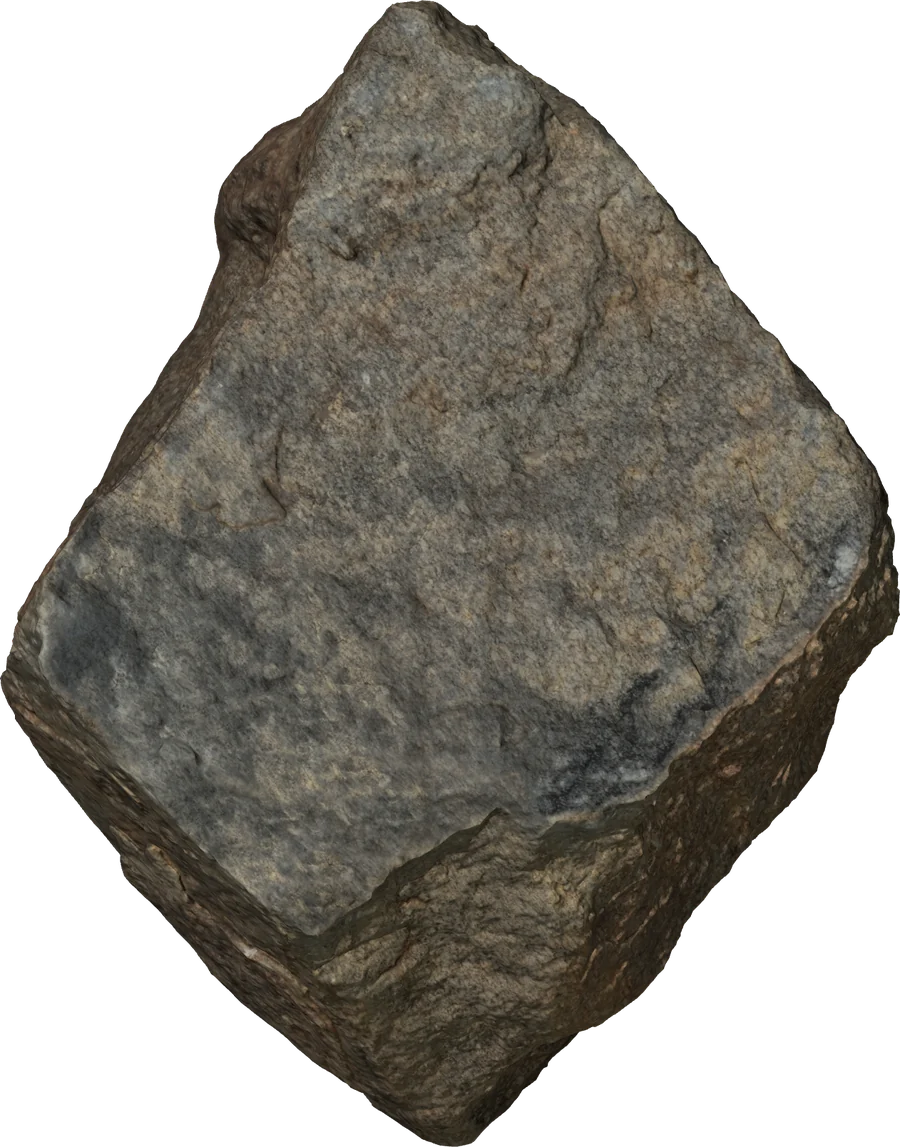
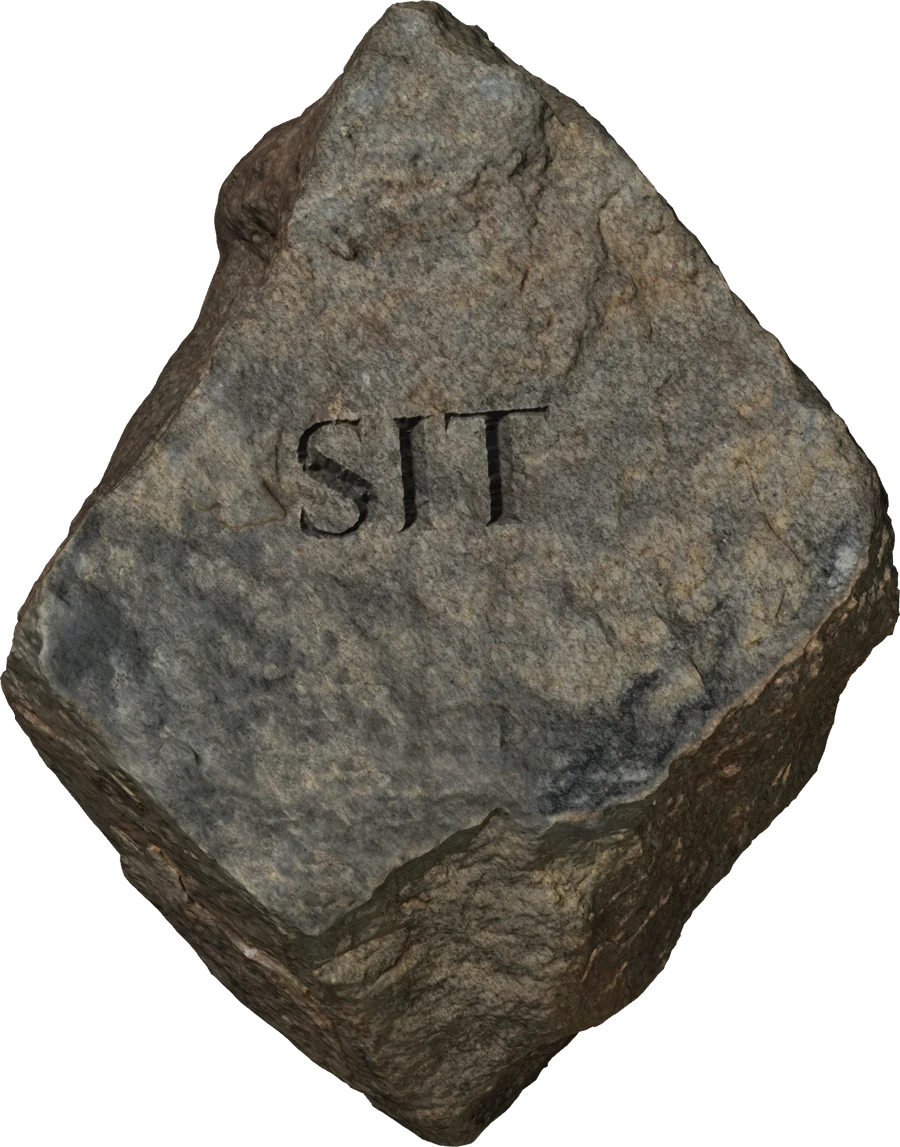
Clearing: smaller rock near the bottom with SIT carved in, sprigs round its outline, a longer walk that turns to sunset, stronger ripple while sitting
Claude-Session: https://claude.ai/code/session_01PnSu5xV1ctRTnpq1nQqMsJ

Changed region(s): [[0.3111, 0.3662, 0.4978, 0.4882], [0.4978, 0.3357, 0.6222, 0.4577]]

diff --git a/assets/blades.js b/assets/blades.js
@@ -162,7 +162,8 @@
       const u = Math.min(1, Math.max(0, (now - gr.t0 - g.gd) / GROW)); return u <= 0 ? null : [g.ang, Math.min(1, u * 4), .12 + .88 * (1 - Math.pow(1 - u, 3))]; };
     // the blades' shadows fall only on the piece (on the ground they'd show as dark smudges), and move with their blades
     if (!st.shape) { const el = st.el; st.shape = [el.offsetWidth, el.offsetHeight, parseFloat(getComputedStyle(el).borderTopLeftRadius) || 0]; }
-    const [w, h, rad] = st.shape; sx.save(); sx.beginPath(); sx.roundRect ? sx.roundRect(0, 0, w, h, rad) : sx.rect(0, 0, w, h); sx.clip();
+    const [w, h, rad] = st.shape, poly = st.el._poly; sx.save(); sx.beginPath();
+    if (poly) { poly.forEach(([x, y], i) => i ? sx.lineTo(x, y) : sx.moveTo(x, y)); sx.closePath(); } else if (sx.roundRect) sx.roundRect(0, 0, w, h, rad); else sx.rect(0, 0, w, h); sx.clip();
     for (const g of st.blades) { if (!near(g)) continue; const P = pose(g); if (P) drawShadow(sx, g, g.x, g.y, P[0], P[1], P[2]); }
     sx.restore();
     // a bending blade is drawn right here in its own strip, so it stays under whatever lies on top of its piece
@@ -351,6 +352,24 @@
     list.push({ el, edge, sp, x, y, w: sw, len, ang, px: ox + x - sw / 2, py: oy + y - len });
   }
   let noGrass = [];
+  // The rock isn't a box: its sprigs root just outside its real outline (traced from the picture, as fractions of its size,
+  // in data-outline) and lean in over it, grouped by which way that stretch of edge faces
+  function rockSprigs(el, list, ox, oy) {
+    const w = el.offsetWidth, h = el.offsetHeight, P = el.dataset.outline.trim().split(/\s+/).map(q => q.split(",").map(Number)).map(([x, y]) => [x * w, y * h]);
+    el._poly = P; let run = 0;
+    for (let i = 0; i < P.length; i++) {
+      const [ax, ay] = P[i], [bx, by] = P[(i + 1) % P.length], seg = Math.hypot(bx - ax, by - ay); if (!seg) continue;
+      const nx = (by - ay) / seg, ny = -(bx - ax) / seg; // outward, for an outline running clockwise on screen
+      for (run += seg; run > 13; run -= 13) {
+        const t = 1 - (run - 13) / seg, x0 = ax + (bx - ax) * t, y0 = ay + (by - ay) * t;
+        const clump = rnd() < .45, len = (clump ? 30 + rnd() * 22 : 26 + rnd() * 26) * K(), sp = pick(rnd() < .3 ? moss : clump ? clumps : blades);
+        const jit = (rnd() - .5) * 70, intrude = 5 + rnd() * 10, out = len * Math.abs(Math.cos(jit * Math.PI / 180)) - intrude;
+        const x = x0 + nx * out, y = y0 + ny * out, sw = sp.w * len / sp.h, ang = Math.atan2(-nx, ny) * 180 / Math.PI + jit;
+        const edge = Math.abs(nx) > Math.abs(ny) ? (nx < 0 ? "r2" : "r3") : (ny < 0 ? "r0" : "r1");
+        list.push({ el, edge, sp, x, y, w: sw, len, ang, px: ox + x - sw / 2, py: oy + y - len });
+      }
+    }
+  }
   const small = () => innerWidth < 700, K = () => small() ? .7 : 1;
   function dress(el) {
     // grass that has already shown stays up until its replacement is painted, so a relayout never leaves a piece bare
@@ -359,10 +378,11 @@
     if (!el._shown) olds.forEach(b => b.remove()); else el._olds = olds;
     for (const st of [...strips]) if (st.el === el) { strips.delete(st); growing.delete(st); }
     const { x: ox, y: oy } = offset(el), list = [];
-    const name = el.classList.contains("lay-name"), tab = !!el.closest(".hand");
+    const name = el.classList.contains("lay-name"), tab = !!el.closest(".hand"), rock = el.classList.contains("lay-rock");
     // menu cards are tucked under the top edge, so only their bottom edge lies in the grass
-    const edges = name || tab ? ["bottom"] : ["top", "bottom", "left", "right"];
-    for (const edge of edges) {
+    const edges = rock ? ["r0", "r1", "r2", "r3"] : name || tab ? ["bottom"] : ["top", "bottom", "left", "right"];
+    if (rock) rockSprigs(el, list, ox, oy);
+    else for (const edge of edges) {
       const span = edge === "top" || edge === "bottom" ? el.offsetWidth : el.offsetHeight;
       const n = Math.max(3, Math.round(span / (name ? 14 : small() ? 24 : 15) * (0.7 + rnd() * 0.6)));
       for (let i = 0; i < n; i++) {
@@ -764,11 +784,10 @@
   // ---------- Sitting on the rock ----------
   // the clearing at the bottom has a rock; sitting on it lets a breeze run through the grass, rising and falling slowly,
   // until you get up (the rock again, Esc, or scrolling away)
-  const breeze = t => { t /= 1000; return .42 + .16 * Math.sin(t * .37) + .1 * Math.sin(t * 1.13 + 1.7); };
+  const breeze = t => { t /= 1000; return .62 + .2 * Math.sin(t * .37) + .12 * Math.sin(t * 1.13 + 1.7); };
   function sit(on) {
     const rock = document.querySelector(".i-rock"); if (!rock || !!wind.sit === on) return;
-    wind.sit = on; rock.setAttribute("aria-pressed", on); document.documentElement.classList.toggle("sitting", on);
-    const tag = rock.querySelector(".i-sit"); if (tag) tag.textContent = on ? "Stand up" : "Sit";
+    wind.sit = on; rock.setAttribute("aria-pressed", on); rock.setAttribute("aria-label", on ? "Stand up" : "Sit on the rock"); document.documentElement.classList.toggle("sitting", on);
     if (on) { rock.closest(".i-field").scrollIntoView({ behavior: reduce() ? "auto" : "smooth", block: "end" }); sit.t = performance.now(); }
     if (on && !reduce() && !wind.raf) { wind.t = performance.now(); wrec.length = 0; wrec.push([wind.t - 7000, 0]); wind.raf = requestAnimationFrame(windFrame); }
   }
@@ -776,7 +795,7 @@
   addEventListener("keydown", e => { if (e.key === "Escape") sit(false); });
   // getting up by scrolling: once the walk to the rock has settled, leaving the clearing stands you up
   addEventListener("scroll", () => { if (!wind.sit || performance.now() - sit.t < 1500) return;
-    const f = document.querySelector(".i-field").getBoundingClientRect(); if (f.top > innerHeight * .45) sit(false); }, { passive: true });
+    const r = document.querySelector(".i-rock").getBoundingClientRect(), c = (r.top + r.bottom) / 2; if (c < 0 || c > innerHeight) sit(false); }, { passive: true });
   function windFrame() {
     const now = performance.now(), dt = Math.min(.034, (now - wind.t) / 1000); wind.t = now;
     if (now - wind.ev > 90) wind.aim = wind.sit ? breeze(now) : 0; // scrolling has stopped (sitting on the rock, a breeze keeps up)
@@ -790,6 +809,8 @@
     const top = recordWind(now, dir * wind.e), calm = !wind.aim && top < .004;
     windW = calm ? 0 : wdir * Math.max(top, .004); // nonzero while any gust is still crossing the window
     wind.ph += 3 * dt; // the gusts travel at about 250px a second
+    // sitting, the gusts lean the grass further (Ian: "a more intense ripple"); it eases there and back so nothing jumps
+    wind.amp = (wind.amp || 0) + ((wind.sit ? 1 : 0) - (wind.amp || 0)) * Math.min(1, dt * .8);
     // while the page is still scrolling nothing leans: re-tilting every edge each frame made the browser redraw the cards
     // all through the scroll (frames went from about 17ms to over half a second, and fast scrolls flashed bare ground), and
     // the lean can't be seen while the page moves anyway (Ian). The gusts it gathered roll through once scrolling stops.
@@ -811,7 +832,7 @@
       const on = !calm && seen[i];
       if (on) { if (!windSt.has(st)) { windSt.add(st); const ox = (st.edge === "left" ? 0 : wd[i]) - st.x0;
           for (const q of pair(st)) for (const n of [q.img, q.cv]) n.style.transformOrigin = `${ox}px 50%`; }
-        const r = rs[i], ex = r.left + (st.edge === "left" ? 0 : r.width), ey = r.top + st.y0 + st.H / DPR / 2, k = (st.edge === "left" ? 1 : -1) * envAt(ex, ey) * 12 * gust(r.left + (st.edge === "left" ? 0 : r.width) + scrollX - sr.x, r.top + st.y0 + st.H / DPR / 2 + scrollY - sr.y), tf = `skewY(${k.toFixed(2)}deg)`; st.skew = [+k.toFixed(2), (st.edge === "left" ? 0 : wd[i]) || st.skew && st.skew[1] || 0]; for (const q of pair(st)) q.img.style.transform = q.cv.style.transform = tf; }
+        const r = rs[i], ex = r.left + (st.edge === "left" ? 0 : r.width), ey = r.top + st.y0 + st.H / DPR / 2, k = (st.edge === "left" ? 1 : -1) * envAt(ex, ey) * (12 + 8 * wind.amp) * gust(r.left + (st.edge === "left" ? 0 : r.width) + scrollX - sr.x, r.top + st.y0 + st.H / DPR / 2 + scrollY - sr.y), tf = `skewY(${k.toFixed(2)}deg)`; st.skew = [+k.toFixed(2), (st.edge === "left" ? 0 : wd[i]) || st.skew && st.skew[1] || 0]; for (const q of pair(st)) q.img.style.transform = q.cv.style.transform = tf; }
       else if (windSt.has(st)) { windSt.delete(st); st.skew = null; for (const q of pair(st)) q.img.style.transform = q.cv.style.transform = ""; } }
     if (SW && !swayFrame.raf) swayFrame.raf = requestAnimationFrame(swayFrame);
     wind.raf = calm ? 0 : requestAnimationFrame(windFrame);
@@ -964,7 +985,7 @@
       l = Math.min(l, x); t = Math.min(t, y); r = Math.max(r, x); b = Math.max(b, y); });
     // the scroll's pull moves every strand in view, so then the whole window is drawn
     if (windW) { l = t = -1e4; r = b = 1e4; }
-    gl.uniform3f(SW.uW, wdir, 6, wind.ph);
+    gl.uniform3f(SW.uW, wdir, 6 + 6 * (wind.amp || 0), wind.ph);
     if (windW) { const sr = sceneRect(); gl.uniform4f(SW.uV, scrollX - sr.x, scrollY - sr.y, innerWidth, innerHeight);
       for (let i = 0; i < WH; i++) SW.eb[i] = Math.max(1, Math.min(255, Math.round(whist[i] * 127) + 128));
       gl.activeTexture(gl.TEXTURE6); gl.bindTexture(gl.TEXTURE_2D, SW.et); gl.texImage2D(gl.TEXTURE_2D, 0, gl.LUMINANCE, WH, 1, 0, gl.LUMINANCE, gl.UNSIGNED_BYTE, SW.eb); } gl.uniform1f(SW.uN, ks.length); gl.uniform1f(SW.uR, SW.d || DPR);

diff --git a/index.html b/index.html
@@ -19,7 +19,7 @@
 <link rel="preconnect" href="https://fonts.gstatic.com" crossorigin>
 <link rel="stylesheet" href="https://fonts.googleapis.com/css2?family=Bricolage+Grotesque:opsz,wght@12..96,300..800&family=Plus+Jakarta+Sans:ital,wght@0,300..800;1,300..800&family=Rampart+One&display=swap">
 <link rel="stylesheet" href="assets/site.css?v=20261013u">
-<link rel="stylesheet" href="assets/dir-i.css?v=20261030sit">
+<link rel="stylesheet" href="assets/dir-i.css?v=20261030sit2">
 <!-- the ground fetched first, so it is usually there for the first frame -->
 <link rel="preload" as="image" href="assets/tex/moss-quiet-2k.webp" fetchpriority="high">
 <link rel="preload" as="image" href="assets/tex/canopy-shade-L.webp" fetchpriority="high">
@@ -110,8 +110,9 @@
    <button class="s-btn primary" type="submit">Send message</button>
    <p class="s-form-note" role="status"></p>
   </div></form></section>
- <section class="i-field" aria-label="A clearing"><button class="i-rock no-grass" type="button" aria-pressed="false"><img class="rock-img" src="assets/img/rock.webp" alt="A rock"><span class="i-sit">Sit</span></button></section>
+ <section class="i-field" aria-label="A clearing"><button class="i-rock lay lay-rock no-grass" type="button" aria-pressed="false" aria-label="Sit on the rock" data-outline="0.997,0.510 0.995,0.544 0.963,0.574 0.937,0.601 0.926,0.631 0.912,0.660 0.893,0.687 0.866,0.709 0.839,0.731 0.814,0.754 0.788,0.777 0.763,0.802 0.743,0.837 0.714,0.865 0.678,0.887 0.637,0.905 0.599,0.937 0.554,0.974 0.503,1.000 0.450,0.982 0.403,0.953 0.359,0.931 0.319,0.905 0.281,0.882 0.247,0.857 0.217,0.830 0.188,0.804 0.158,0.780 0.135,0.752 0.112,0.724 0.086,0.699 0.059,0.672 0.034,0.644 0.010,0.613 0.008,0.578 0.021,0.543 0.038,0.510 0.063,0.480 0.082,0.452 0.105,0.426 0.122,0.401 0.137,0.376 0.157,0.353 0.176,0.330 0.195,0.307 0.216,0.285 0.230,0.255 0.244,0.220 0.247,0.163 0.278,0.132 0.316,0.107 0.358,0.085 0.397,0.039 0.446,0.003 0.503,0.014 0.555,0.043 0.602,0.069 0.645,0.092 0.683,0.121 0.715,0.152 0.745,0.180 0.773,0.207 0.798,0.233 0.821,0.260 0.845,0.285 0.873,0.306 0.898,0.331 0.923,0.356 0.948,0.383 0.974,0.411 0.986,0.443 0.993,0.476"><img class="rock-img" src="assets/img/rock.webp" alt=""></button></section>
 </main>
+<div class="i-dusk" aria-hidden="true"></div><div class="i-dusk i-glow" aria-hidden="true"></div>
 </div><script>(() => { // each piece learns where it lies before the page is first drawn, so its light is right from the start
   // (until blades.js did this, every card was lit as if it were the whole page: a dark rim that then changed)
   const sc = document.querySelector(".x-i"); if (!sc) return; const R = sc.getBoundingClientRect();
@@ -119,4 +120,4 @@
   document.querySelectorAll(".card, .hand a").forEach(el => { const r = el.getBoundingClientRect();
     el.style.setProperty("--ox", (r.left + r.width / 2 - el.offsetWidth / 2 - R.left) + "px"); el.style.setProperty("--oy", (r.top + r.height / 2 - el.offsetHeight / 2 - R.top) + "px"); }); })();</script><script>(() => { const done = () => document.documentElement.classList.add("ground-in");
   window.__floor.groundP.then(() => { const F = window.__floor || {}; if (document.prerendering || !F.drawn || F.panned) { document.documentElement.classList.add("ground-now"); done(); } else requestAnimationFrame(done); });
-  setTimeout(done, 5000); })();</script><script src="assets/site-r.js?v=20261030c" defer></script><script src="assets/blades.js?v=20261030t" defer></script><script src="assets/forest.js?v=20261030f" defer></script></body></html>
+  setTimeout(done, 5000); })();</script><script src="assets/site-r.js?v=20261030c" defer></script><script src="assets/blades.js?v=20261030u" defer></script><script src="assets/forest.js?v=20261030f" defer></script></body></html>

diff --git a/assets/dir-i.css b/assets/dir-i.css
@@ -540,10 +540,13 @@ html:active-view-transition-type(pan-left)::view-transition-new(root) { animatio
 @keyframes pan-from-right { from { transform: translateX(calc(100% - var(--sbw, 0px))); } }
 @keyframes pan-to-right { to { transform: translateX(calc(100% - var(--sbw, 0px))); } }
 @keyframes pan-from-left { from { transform: translateX(calc(var(--sbw, 0px) - 100%)); } }
-/* the clearing at the bottom: open moss with a rock to sit on; sitting lets a breeze run through the grass */
-.i-field { position: relative; height: max(100vh, 680px); margin-top: 120px; }
-.i-rock { position: absolute; left: 50%; top: 52%; width: min(430px, 62vw); transform: translate(-50%, -50%) rotate(-6deg); padding: 0; border: 0; background: none; cursor: pointer; z-index: 3; }
-.rock-img { display: block; width: 100%; height: auto; filter: drop-shadow(2px 4px 3px rgba(8,10,0,.5)) drop-shadow(14px 22px 22px rgba(8,10,0,.38)); }
-.i-sit { position: absolute; left: 50%; top: 50%; transform: translate(-50%, -50%) rotate(4deg); font-family: var(--f-ui); font-weight: 700; font-size: 15px; letter-spacing: .14em; text-transform: uppercase; color: #2b2720;
-  background: rgba(226,214,180,.9) url("tex/paper001_tile-1024.webp") center / 300px; background-blend-mode: multiply; padding: 7px 18px 6px; box-shadow: 0 1px 1px rgba(0,0,0,.5), 2px 4px 6px rgba(0,0,0,.3); }
-.i-rock:focus-visible { outline: none; } .i-rock:focus-visible .i-sit { outline: 2px solid var(--accent); outline-offset: 2px; }
+/* the clearing at the bottom: a long walk of open moss to a rock you can sit on; sitting lets a breeze run through the
+   grass. The light goes to sunset on the way down (one still layer that scrolls with the page, so it costs nothing to scroll) */
+.i-field { position: relative; height: max(240vh, 1700px); margin-top: 120px; }
+.i-rock { position: absolute; left: 50%; bottom: 13vh; width: min(270px, 44vw); transform: translateX(-50%) rotate(-6deg); padding: 0; border: 0; background: none; cursor: pointer; z-index: 3; }
+.rock-img { display: block; width: 100%; height: auto; filter: drop-shadow(2px 3px 2px rgba(8,10,0,.5)) drop-shadow(10px 16px 16px rgba(8,10,0,.38)); }
+.i-rock:focus-visible { outline: 2px solid var(--accent); outline-offset: 6px; border-radius: 40%; }
+.x-i > .i-dusk { position: absolute; left: 0; right: 0; bottom: 0; height: calc(max(240vh, 1700px) + 60vh); z-index: 8; pointer-events: none;
+  background: linear-gradient(rgba(215,160,175,0), rgba(215,160,175,.35) 40%, rgba(196,140,170,.55) 85%, rgba(186,132,168,.62)); mix-blend-mode: multiply; }
+.x-i > .i-glow { mix-blend-mode: soft-light;
+  background: linear-gradient(rgba(255,175,70,0) 10%, rgba(255,170,70,.5) 55%, rgba(255,150,60,.68)); }

diff --git a/work/birds-lab/index.html b/work/birds-lab/index.html
@@ -19,7 +19,7 @@
 <link rel="preconnect" href="https://fonts.gstatic.com" crossorigin>
 <link rel="stylesheet" href="https://fonts.googleapis.com/css2?family=Bricolage+Grotesque:wght@300..800&family=Plus+Jakarta+Sans:ital,wght@0,300..800;1,300..800&family=Rampart+One&display=swap">
 <link rel="stylesheet" href="../../assets/site.css?v=20261013u">
-<link rel="stylesheet" href="../../assets/dir-i.css?v=20261030sit">
+<link rel="stylesheet" href="../../assets/dir-i.css?v=20261030sit2">
 <link rel="stylesheet" href="../../assets/case-i.css?v=20261029m">
 <!-- the ground fetched first, so it is usually there for the first frame -->
 <link rel="preload" as="image" href="../../assets/tex/moss-quiet-2k.webp" fetchpriority="high">
@@ -135,6 +135,6 @@
   document.querySelectorAll(".card, .hand a").forEach(el => { const r = el.getBoundingClientRect();
     el.style.setProperty("--ox", (r.left + r.width / 2 - el.offsetWidth / 2 - R.left) + "px"); el.style.setProperty("--oy", (r.top + r.height / 2 - el.offsetHeight / 2 - R.top) + "px"); }); })();</script><script>(() => { const done = () => document.documentElement.classList.add("ground-in");
   window.__floor.groundP.then(() => { const F = window.__floor || {}; if (document.prerendering || !F.drawn || F.panned) { document.documentElement.classList.add("ground-now"); done(); } else requestAnimationFrame(done); });
-  setTimeout(done, 5000); })();</script><script src="../../assets/blades.js?v=20261030t" defer></script><script src="../../assets/forest.js?v=20261030f" defer></script>
+  setTimeout(done, 5000); })();</script><script src="../../assets/blades.js?v=20261030u" defer></script><script src="../../assets/forest.js?v=20261030f" defer></script>
 </body>
 </html>

diff --git a/work/daily-weather/index.html b/work/daily-weather/index.html
@@ -19,7 +19,7 @@
 <link rel="preconnect" href="https://fonts.gstatic.com" crossorigin>
 <link rel="stylesheet" href="https://fonts.googleapis.com/css2?family=Bricolage+Grotesque:wght@300..800&family=Plus+Jakarta+Sans:ital,wght@0,300..800;1,300..800&family=Rampart+One&display=swap">
 <link rel="stylesheet" href="../../assets/site.css?v=20261013u">
-<link rel="stylesheet" href="../../assets/dir-i.css?v=20261030sit">
+<link rel="stylesheet" href="../../assets/dir-i.css?v=20261030sit2">
 <link rel="stylesheet" href="../../assets/case-i.css?v=20261029m">
 <!-- the ground fetched first, so it is usually there for the first frame -->
 <link rel="preload" as="image" href="../../assets/tex/moss-quiet-2k.webp" fetchpriority="high">
@@ -158,6 +158,6 @@
   document.querySelectorAll(".card, .hand a").forEach(el => { const r = el.getBoundingClientRect();
     el.style.setProperty("--ox", (r.left + r.width / 2 - el.offsetWidth / 2 - R.left) + "px"); el.style.setProperty("--oy", (r.top + r.height / 2 - el.offsetHeight / 2 - R.top) + "px"); }); })();</script><script>(() => { const done = () => document.documentElement.classList.add("ground-in");
   window.__floor.groundP.then(() => { const F = window.__floor || {}; if (document.prerendering || !F.drawn || F.panned) { document.documentElement.classList.add("ground-now"); done(); } else requestAnimationFrame(done); });
-  setTimeout(done, 5000); })();</script><script src="../../assets/blades.js?v=20261030t" defer></script><script src="../../assets/forest.js?v=20261030f" defer></script>
+  setTimeout(done, 5000); })();</script><script src="../../assets/blades.js?v=20261030u" defer></script><script src="../../assets/forest.js?v=20261030f" defer></script>
 </body>
 </html>

diff --git a/work/embodied-cognition/index.html b/work/embodied-cognition/index.html
@@ -19,7 +19,7 @@
 <link rel="preconnect" href="https://fonts.gstatic.com" crossorigin>
 <link rel="stylesheet" href="https://fonts.googleapis.com/css2?family=Bricolage+Grotesque:wght@300..800&family=Plus+Jakarta+Sans:ital,wght@0,300..800;1,300..800&family=Rampart+One&display=swap">
 <link rel="stylesheet" href="../../assets/site.css?v=20261013u">
-<link rel="stylesheet" href="../../assets/dir-i.css?v=20261030sit">
+<link rel="stylesheet" href="../../assets/dir-i.css?v=20261030sit2">
 <link rel="stylesheet" href="../../assets/case-i.css?v=20261029m">
 <!-- the ground fetched first, so it is usually there for the first frame -->
 <link rel="preload" as="image" href="../../assets/tex/moss-quiet-2k.webp" fetchpriority="high">
@@ -155,6 +155,6 @@
   document.querySelectorAll(".card, .hand a").forEach(el => { const r = el.getBoundingClientRect();
     el.style.setProperty("--ox", (r.left + r.width / 2 - el.offsetWidth / 2 - R.left) + "px"); el.style.setProperty("--oy", (r.top + r.height / 2 - el.offsetHeight / 2 - R.top) + "px"); }); })();</script><script>(() => { const done = () => document.documentElement.classList.add("ground-in");
   window.__floor.groundP.then(() => { const F = window.__floor || {}; if (document.prerendering || !F.drawn || F.panned) { document.documentElement.classList.add("ground-now"); done(); } else requestAnimationFrame(done); });
-  setTimeout(done, 5000); })();</script><script src="../../assets/blades.js?v=20261030t" defer></script><script src="../../assets/forest.js?v=20261030f" defer></script>
+  setTimeout(done, 5000); })();</script><script src="../../assets/blades.js?v=20261030u" defer></script><script src="../../assets/forest.js?v=20261030f" defer></script>
 </body>
 </html>

diff --git a/work/exact-sports/index.html b/work/exact-sports/index.html
@@ -19,7 +19,7 @@
 <link rel="preconnect" href="https://fonts.gstatic.com" crossorigin>
 <link rel="stylesheet" href="https://fonts.googleapis.com/css2?family=Bricolage+Grotesque:wght@300..800&family=Plus+Jakarta+Sans:ital,wght@0,300..800;1,300..800&family=Rampart+One&display=swap">
 <link rel="stylesheet" href="../../assets/site.css?v=20261013u">
-<link rel="stylesheet" href="../../assets/dir-i.css?v=20261030sit">
+<link rel="stylesheet" href="../../assets/dir-i.css?v=20261030sit2">
 <link rel="stylesheet" href="../../assets/case-i.css?v=20261029m">
 <!-- the ground fetched first, so it is usually there for the first frame -->
 <link rel="preload" as="image" href="../../assets/tex/moss-quiet-2k.webp" fetchpriority="high">
@@ -186,6 +186,6 @@
   document.querySelectorAll(".card, .hand a").forEach(el => { const r = el.getBoundingClientRect();
     el.style.setProperty("--ox", (r.left + r.width / 2 - el.offsetWidth / 2 - R.left) + "px"); el.style.setProperty("--oy", (r.top + r.height / 2 - el.offsetHeight / 2 - R.top) + "px"); }); })();</script><script>(() => { const done = () => document.documentElement.classList.add("ground-in");
   window.__floor.groundP.then(() => { const F = window.__floor || {}; if (document.prerendering || !F.drawn || F.panned) { document.documentElement.classList.add("ground-now"); done(); } else requestAnimationFrame(done); });
-  setTimeout(done, 5000); })();</script><script src="../../assets/blades.js?v=20261030t" defer></script><script src="../../assets/forest.js?v=20261030f" defer></script>
+  setTimeout(done, 5000); })();</script><script src="../../assets/blades.js?v=20261030u" defer></script><script src="../../assets/forest.js?v=20261030f" defer></script>
 </body>
 </html>

diff --git a/projects/index.html b/projects/index.html
@@ -19,7 +19,7 @@
 <link rel="preconnect" href="https://fonts.gstatic.com" crossorigin>
 <link rel="stylesheet" href="https://fonts.googleapis.com/css2?family=Bricolage+Grotesque:wght@300..800&family=Plus+Jakarta+Sans:ital,wght@0,300..800;1,300..800&family=Rampart+One&display=swap">
 <link rel="stylesheet" href="../assets/site.css?v=20261013u">
-<link rel="stylesheet" href="../assets/dir-i.css?v=20261030sit">
+<link rel="stylesheet" href="../assets/dir-i.css?v=20261030sit2">
 <link rel="stylesheet" href="../assets/case-i.css?v=20261029m">
 <!-- the ground fetched first, so it is usually there for the first frame -->
 <link rel="preload" as="image" href="../assets/tex/moss-quiet-2k.webp" fetchpriority="high">
@@ -121,6 +121,6 @@
   document.querySelectorAll(".card, .hand a").forEach(el => { const r = el.getBoundingClientRect();
     el.style.setProperty("--ox", (r.left + r.width / 2 - el.offsetWidth / 2 - R.left) + "px"); el.style.setProperty("--oy", (r.top + r.height / 2 - el.offsetHeight / 2 - R.top) + "px"); }); })();</script><script>(() => { const done = () => document.documentElement.classList.add("ground-in");
   window.__floor.groundP.then(() => { const F = window.__floor || {}; if (document.prerendering || !F.drawn || F.panned) { document.documentElement.classList.add("ground-now"); done(); } else requestAnimationFrame(done); });
-  setTimeout(done, 5000); })();</script><script src="../assets/blades.js?v=20261030t" defer></script><script src="../assets/forest.js?v=20261030f" defer></script>
+  setTimeout(done, 5000); })();</script><script src="../assets/blades.js?v=20261030u" defer></script><script src="../assets/forest.js?v=20261030f" defer></script>
 </body>
 </html>
